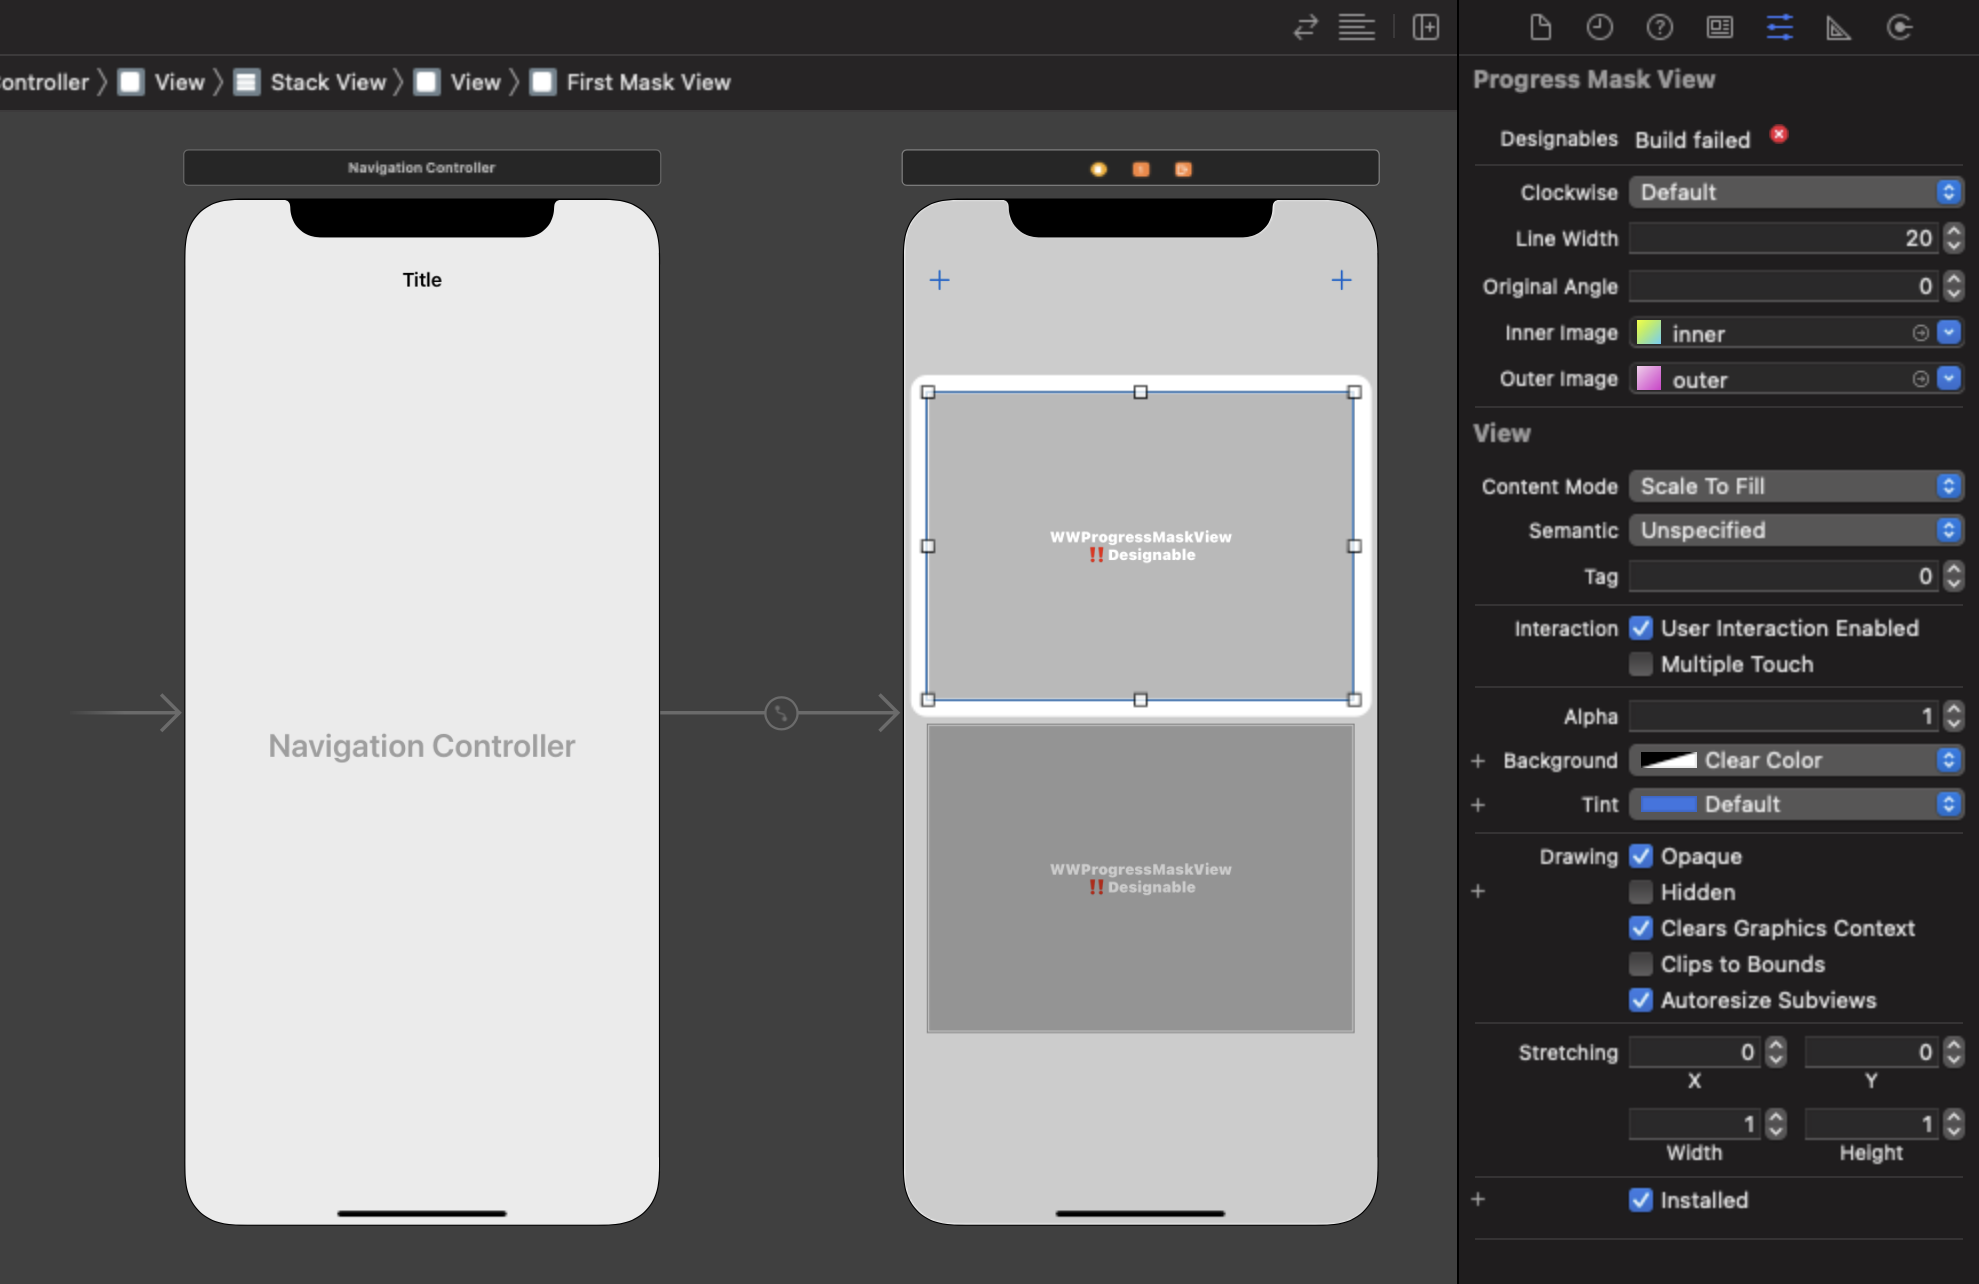
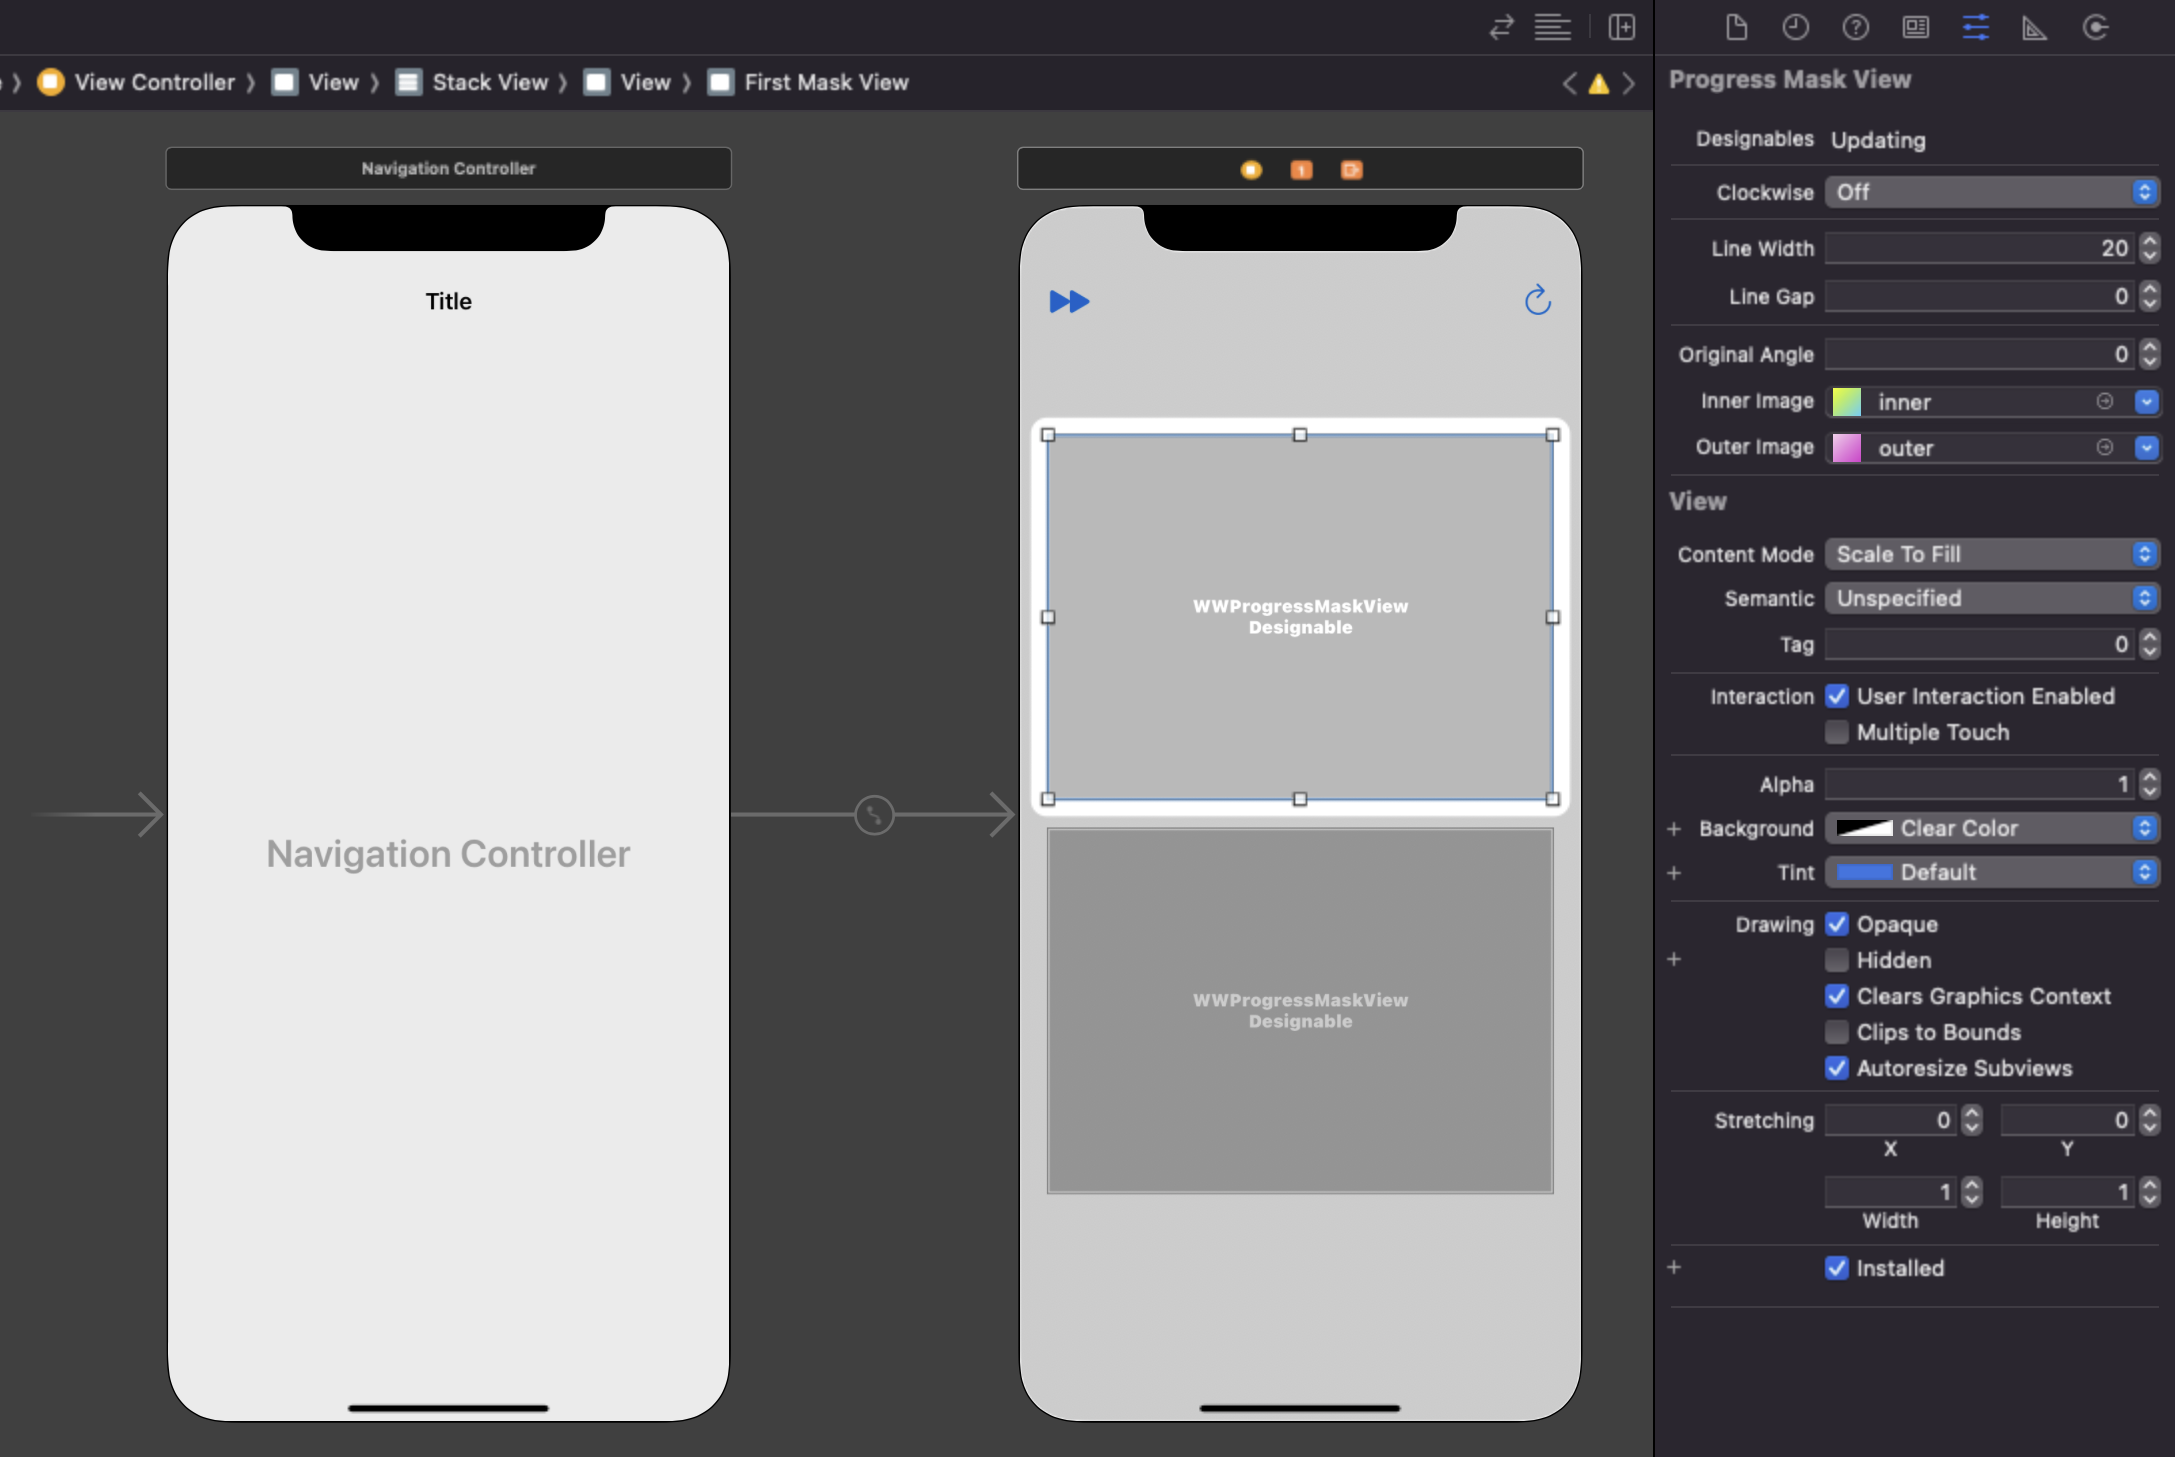
- 修正繼承後找不到Xib的問題

diff --git a/Sources/WWProgressMaskView/ProgressMaskView.swift b/Sources/WWProgressMaskView/ProgressMaskView.swift
@@ -131,7 +131,7 @@ private extension WWProgressMaskView {
     func initViewFromXib() {
         
         let bundle = Bundle.module
-        let name = String(describing: Self.self)
+        let name = String(describing: WWProgressMaskView.self)
         
         bundle.loadNibNamed(name, owner: self, options: nil)
         contentView.frame = bounds
